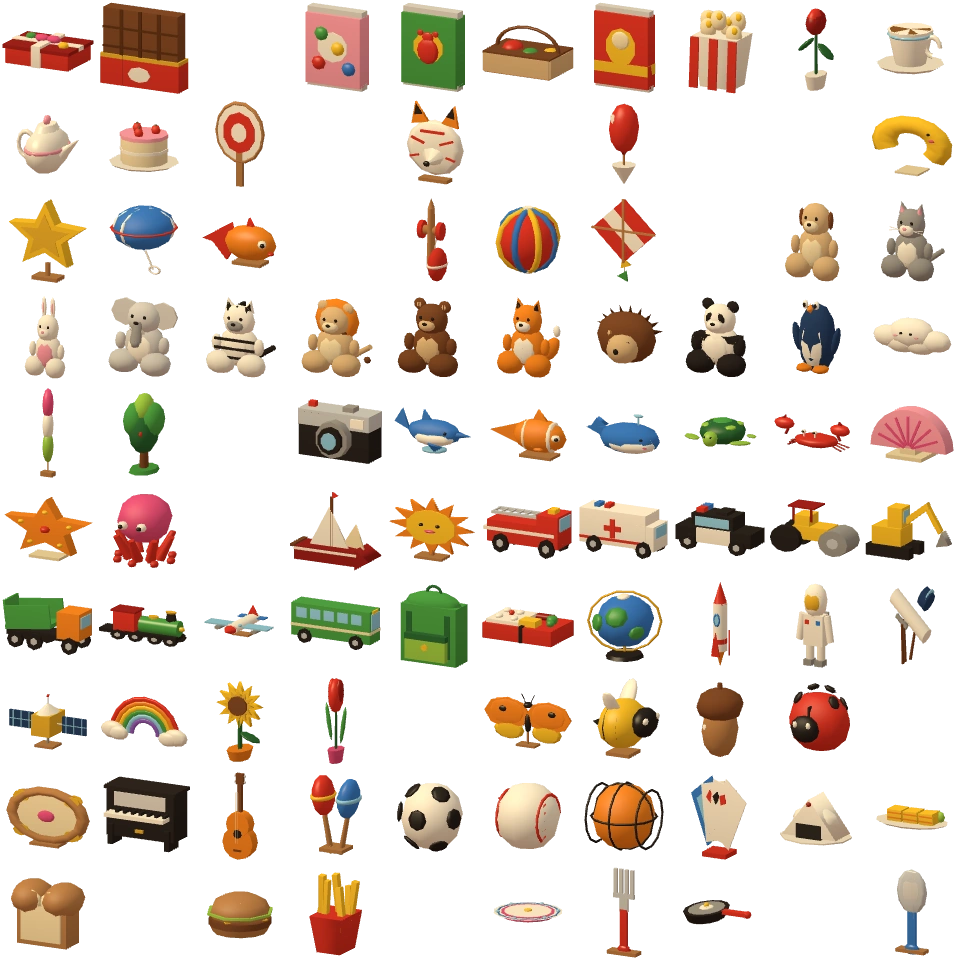
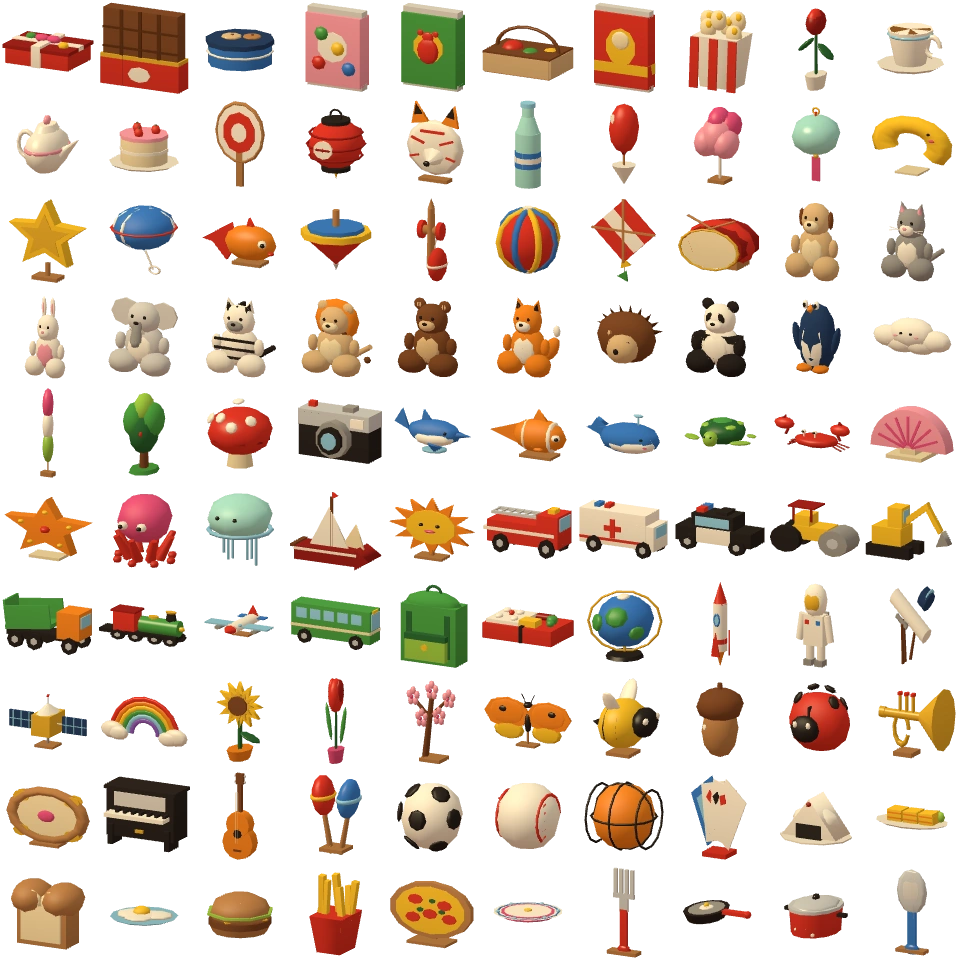
fix(view): 14種の景品の形が幅0の線になっていた不具合と絵の一覧画像
Claude-Session: https://claude.ai/code/session_012tMThdNXiwissH2xWmZST3

diff --git a/tests/integration/view-contract.test.ts b/tests/integration/view-contract.test.ts
@@ -327,6 +327,23 @@ describe('view: 100 prize recipes', () => {
     expect(total).toBeLessThan(100000);
   });
 
+  it('every catalog prize keeps its width and depth in its own collider (no model squeezed to a line)', async () => {
+    // Found by T02: 14 cylinder prizes (P003, P075, ...) were built with zero width when the
+    // top vertex sat a rounding error above the collider; they were invisible on the shelf and
+    // blank in the prize pictures.
+    const { RELEASE_CATALOG } = await import('../../src/catalog/release-config');
+    const thin: string[] = [];
+    for (const [id, prize] of RELEASE_CATALOG.prizes) {
+      const shape = prize.shape;
+      const geo = buildPrizeGeometry(prize.modelKey, shape, prize.material);
+      geo.computeBoundingBox();
+      const size = geo.boundingBox!.getSize(new THREE.Vector3());
+      const r = shape.kind === 'box' ? Math.min(shape.halfExtents.x, shape.halfExtents.z) : shape.radius;
+      if (Math.max(size.x, size.z) < 0.2 * r) thin.push(`${id} ${size.x.toFixed(4)}x${size.z.toFixed(4)}`);
+    }
+    expect(thin).toEqual([]);
+  });
+
   it('bottom-aligns flat-bottomed shapes so prizes sit on the shelf', () => {
     for (const id of ['P001', 'P029', 'P056']) {
       const shape = SHAPES.smallBox as Extract<CollisionShape, { kind: 'box' }>;

diff --git a/src/view/prizes.ts b/src/view/prizes.ts
@@ -51,7 +51,9 @@ export function insideShape(shape: CollisionShape, x: number, y: number, z: numb
 function everyVertexInside(g: THREE.BufferGeometry, shape: CollisionShape, sxz: number, s: number): boolean {
   const p = g.getAttribute('position');
   for (let i = 0; i < p.count; i++) {
-    if (!insideShape(shape, p.getX(i) * sxz * s, p.getY(i) * s, p.getZ(i) * sxz * s, 0)) return false;
+    // 1e-7 (positions are 32-bit floats): a top vertex placed exactly on the collider's top must not count as outside through a
+    // rounding error; otherwise the search below squeezes the model's width to zero.
+    if (!insideShape(shape, p.getX(i) * sxz * s, p.getY(i) * s, p.getZ(i) * sxz * s, 1e-7)) return false;
   }
   return true;
 }
